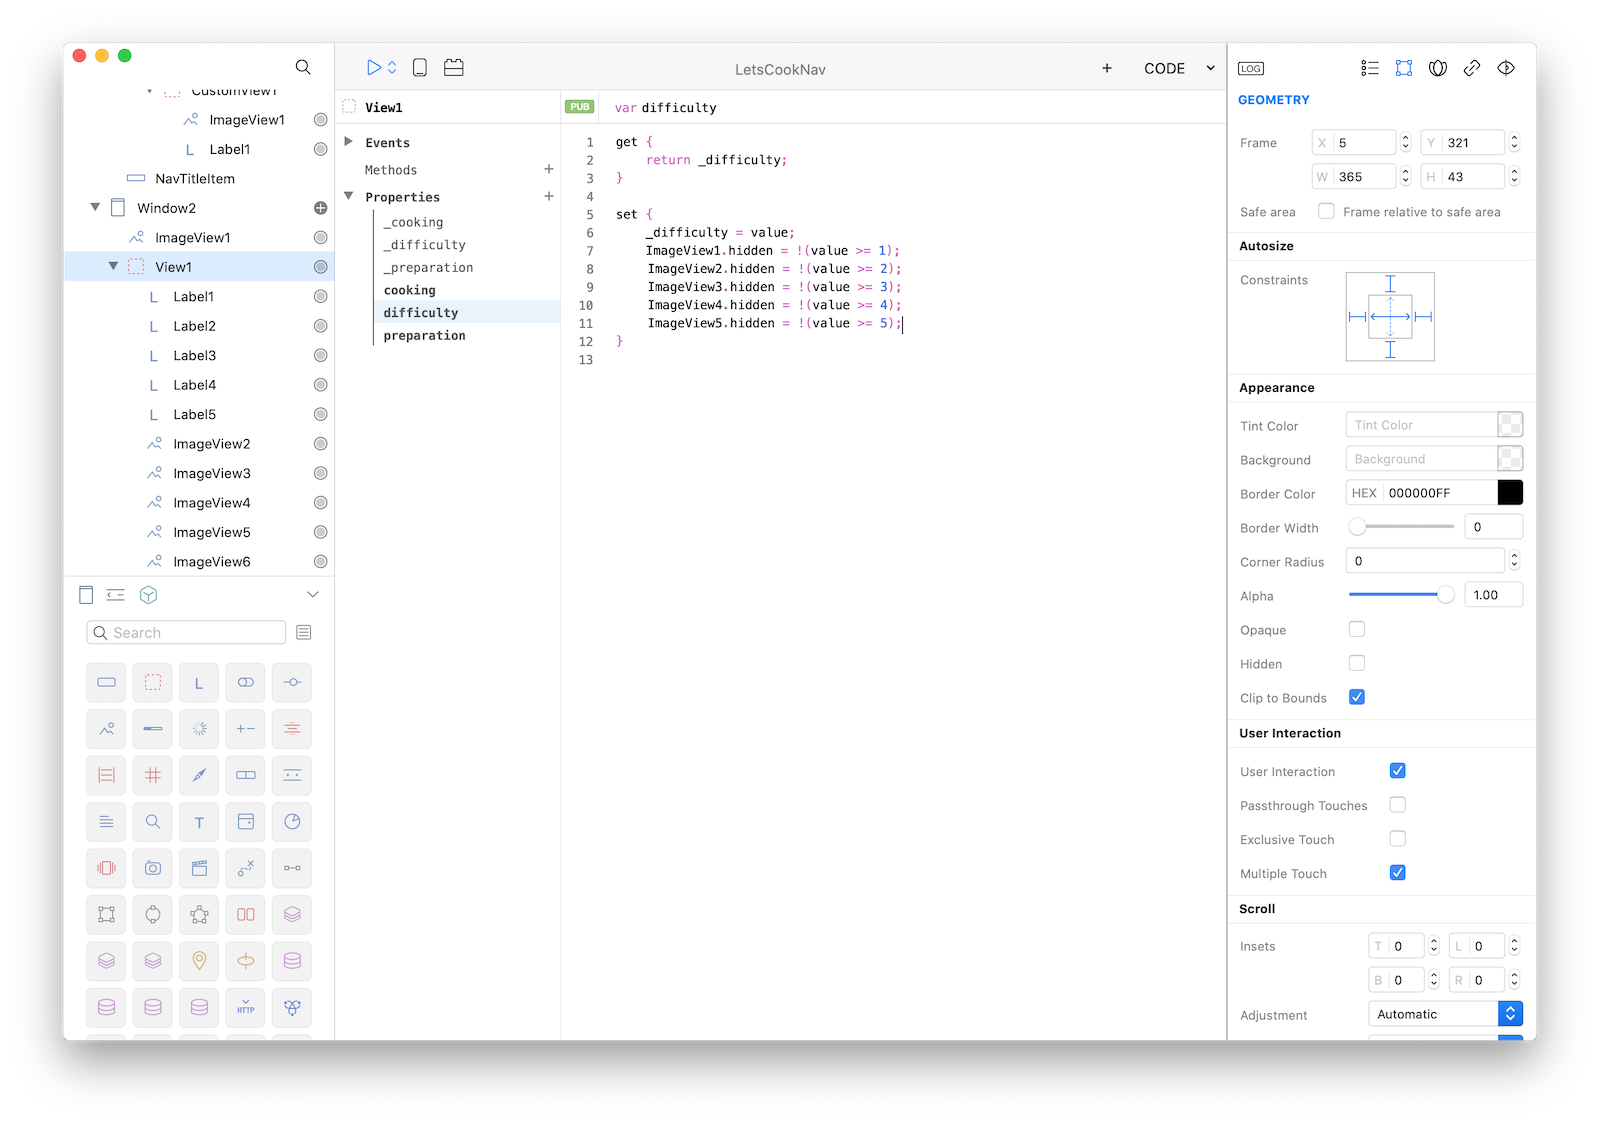
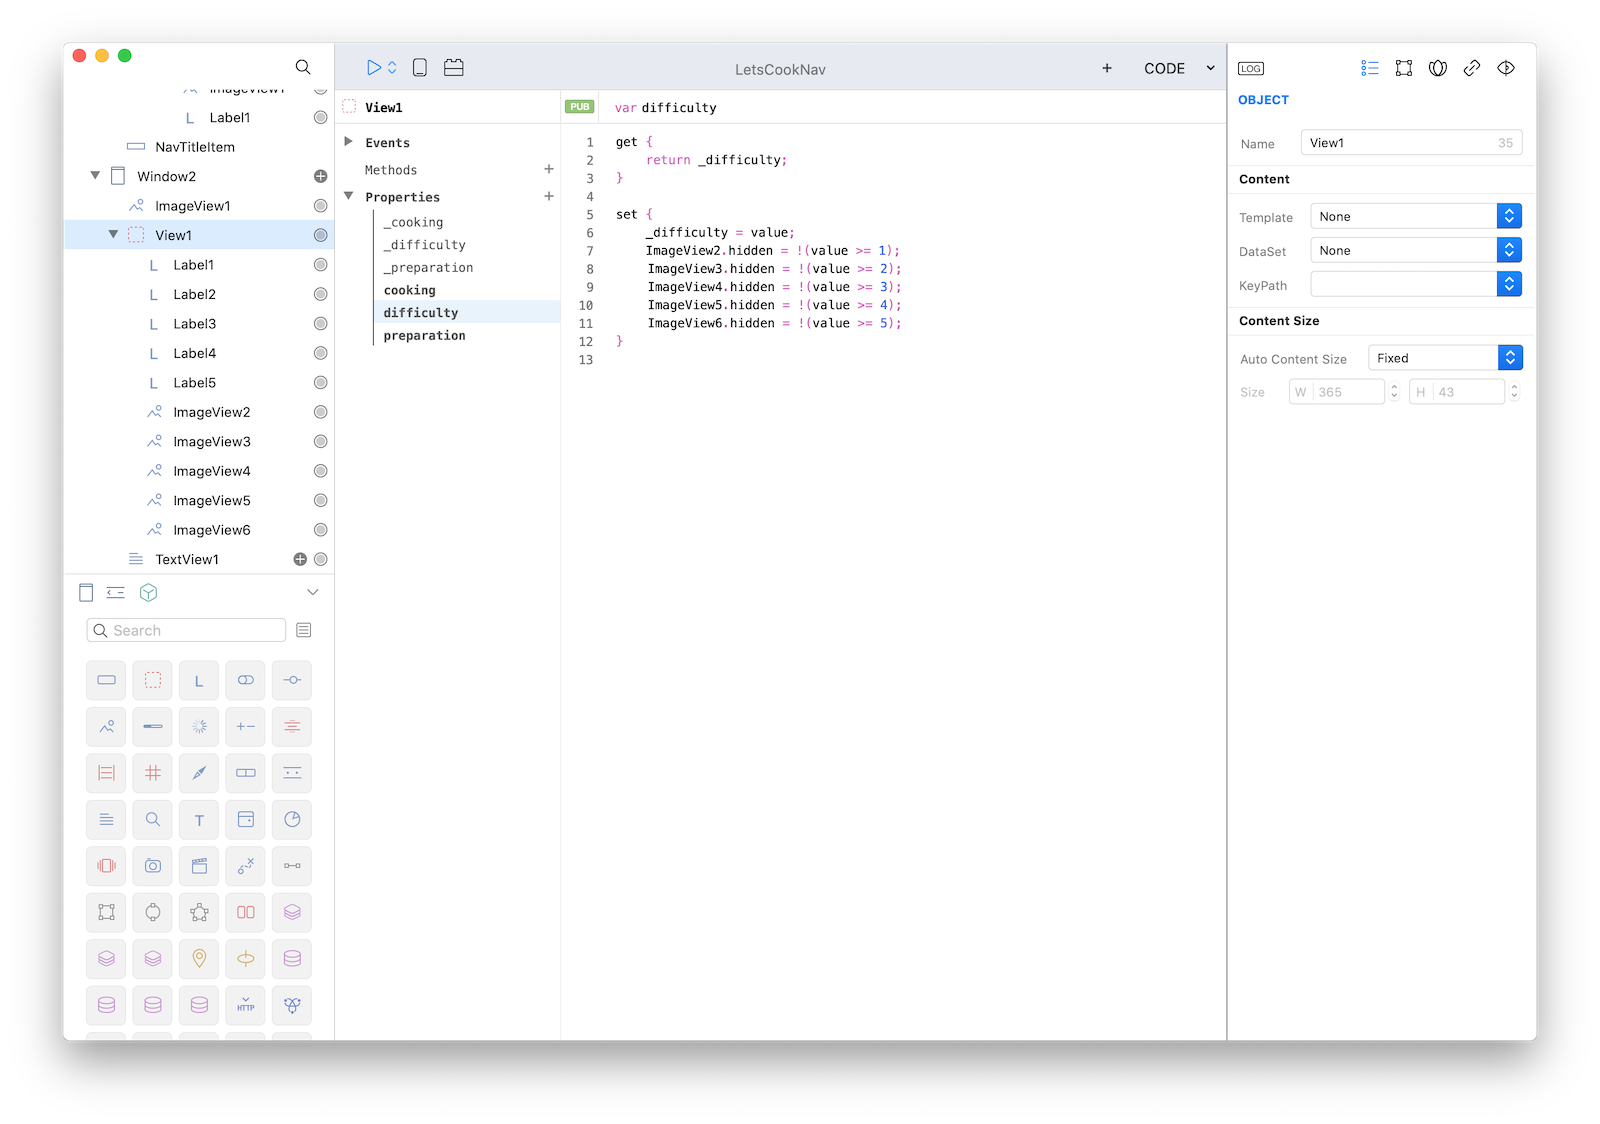
Minor fixes for the LetsCookNav tutorial

diff --git a/docs/tutorials/lets-cook-nav.md b/docs/tutorials/lets-cook-nav.md
@@ -246,11 +246,11 @@ get {
 
 set {
 	_difficulty = value;
-	ImageView1.hidden = !(value >= 1);
-	ImageView2.hidden = !(value >= 2);
-	ImageView3.hidden = !(value >= 3);
-	ImageView4.hidden = !(value >= 4);
-	ImageView5.hidden = !(value >= 5);
+	ImageView2.hidden = !(value >= 1);
+	ImageView3.hidden = !(value >= 2);
+	ImageView4.hidden = !(value >= 3);
+	ImageView5.hidden = !(value >= 4);
+	ImageView6.hidden = !(value >= 5);
 }
 ```
 ![LetsCookNav](../images/tutorials/lets-cook-nav-2-33.png)
